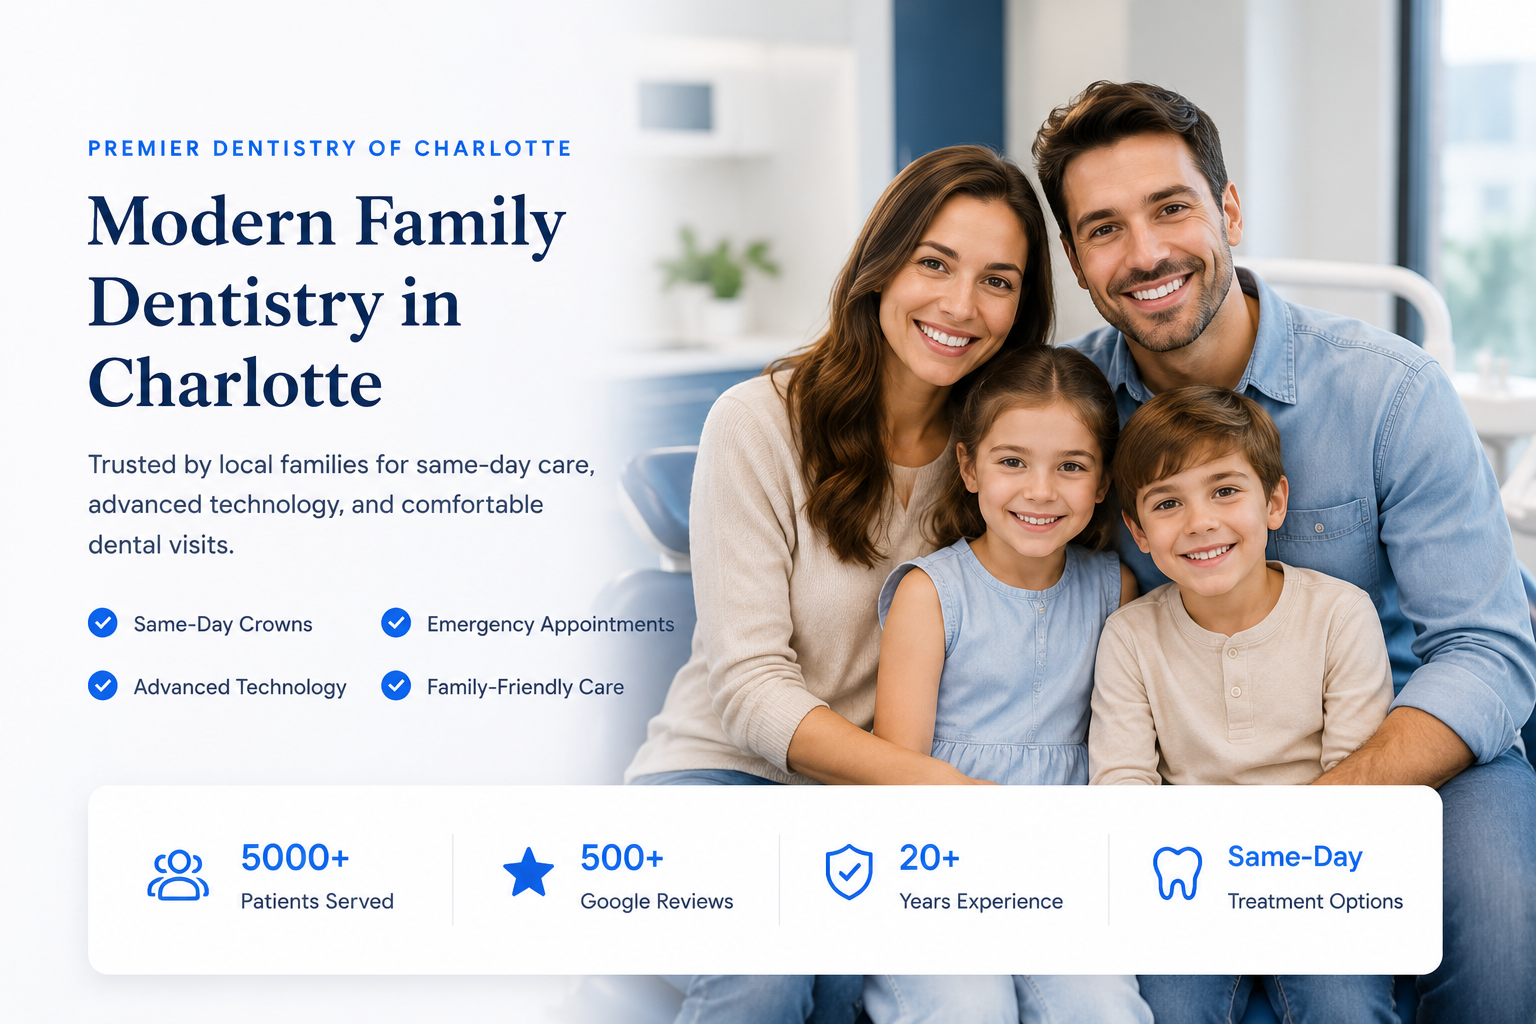
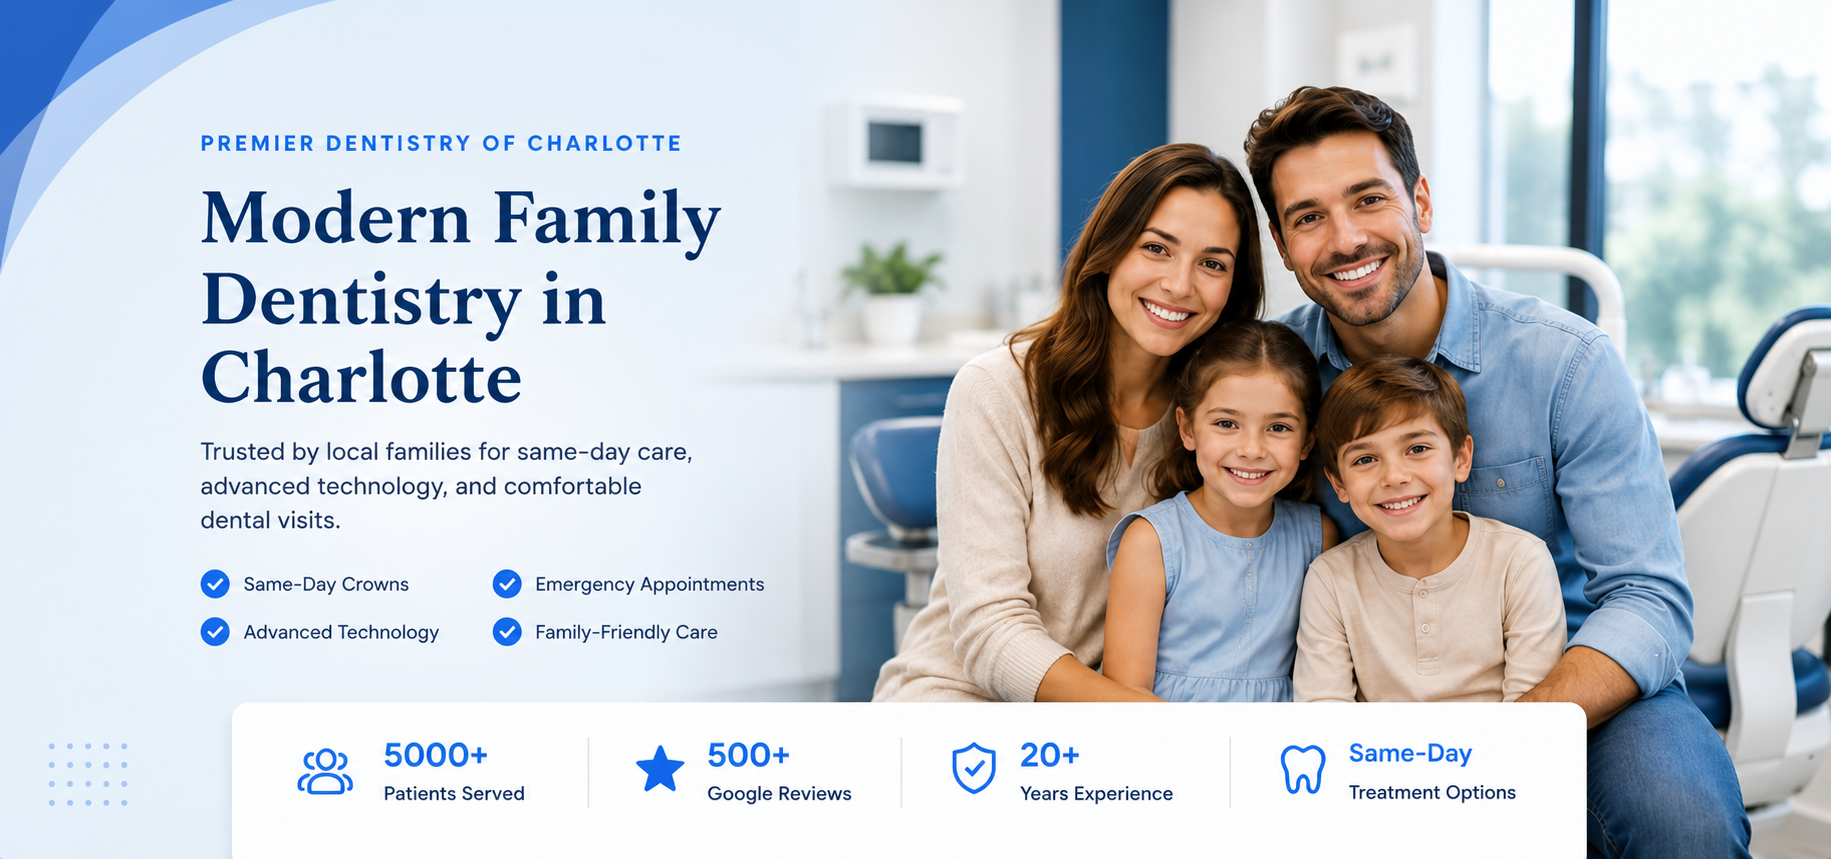
update image

diff --git a/src/app/page.tsx b/src/app/page.tsx
@@ -56,8 +56,8 @@ export default function HomePage() {
         primaryImageOfPage: {
           "@type": "ImageObject",
           url: absoluteUrl("/hero-family-all-screens.png"),
-          width: 1536,
-          height: 1024,
+          width: 1920,
+          height: 900,
         },
         significantLink: [
           absoluteUrl("/services"),
@@ -94,7 +94,7 @@ export default function HomePage() {
         <p className="sr-only">
           Premier Dentistry of Charlotte provides same-day crowns, emergency appointments, advanced technology, and family-friendly dental care.
         </p>
-        <div className="relative aspect-[1536/1024] w-full overflow-hidden">
+        <div className="relative w-full h-[80vh] min-h-[700px] overflow-hidden">
           <Image
             src="/hero-family-all-screens.png"
             alt="Modern Family Dentistry in Charlotte at Premier Dentistry"
@@ -102,7 +102,7 @@ export default function HomePage() {
             priority
             quality={100}
             sizes="100vw"
-            className="object-cover object-top"
+            className="object-cover object-center"
           />
         </div>
       </section>
